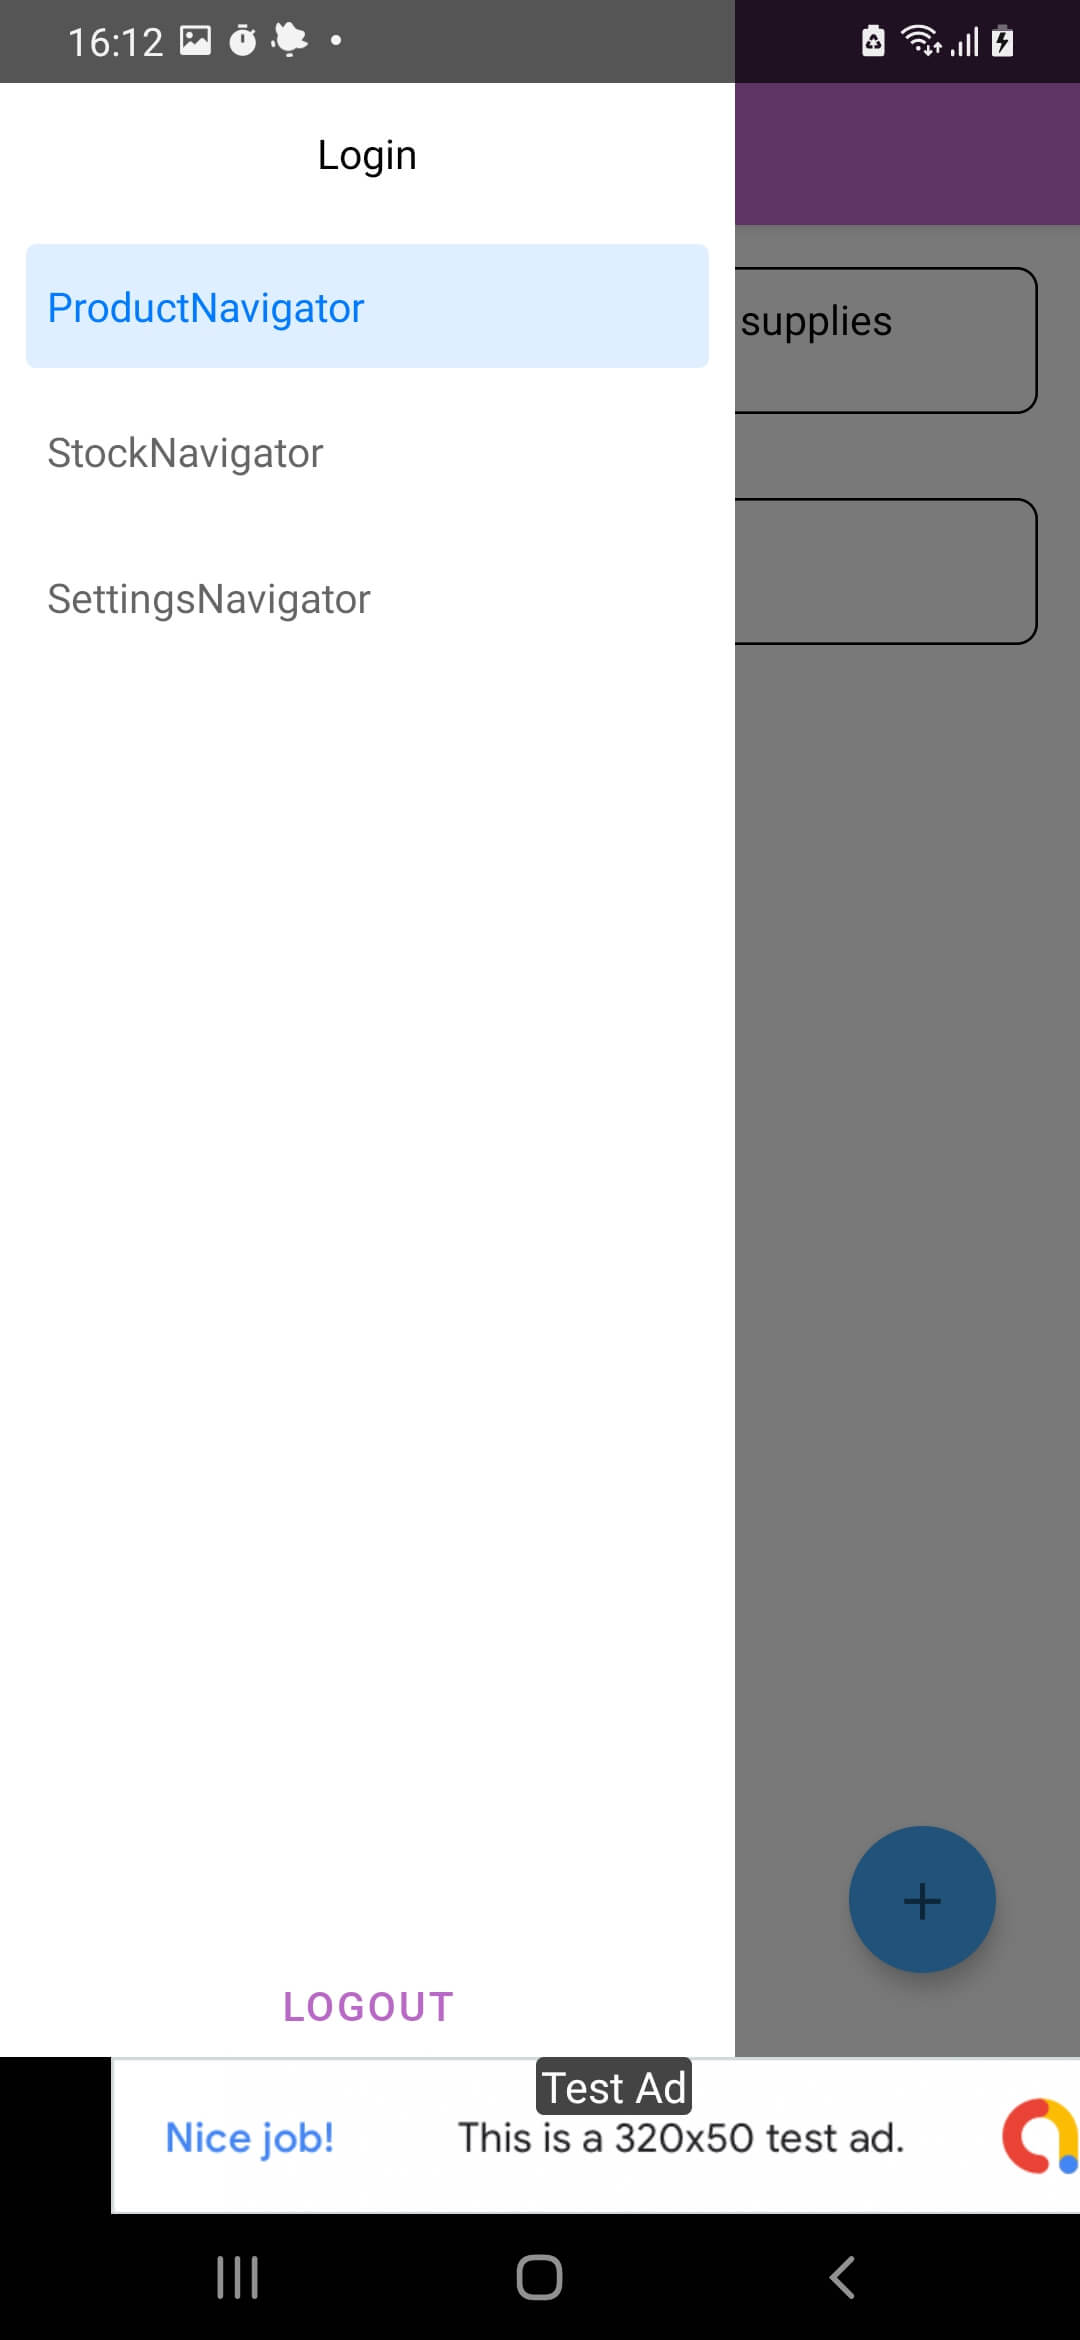
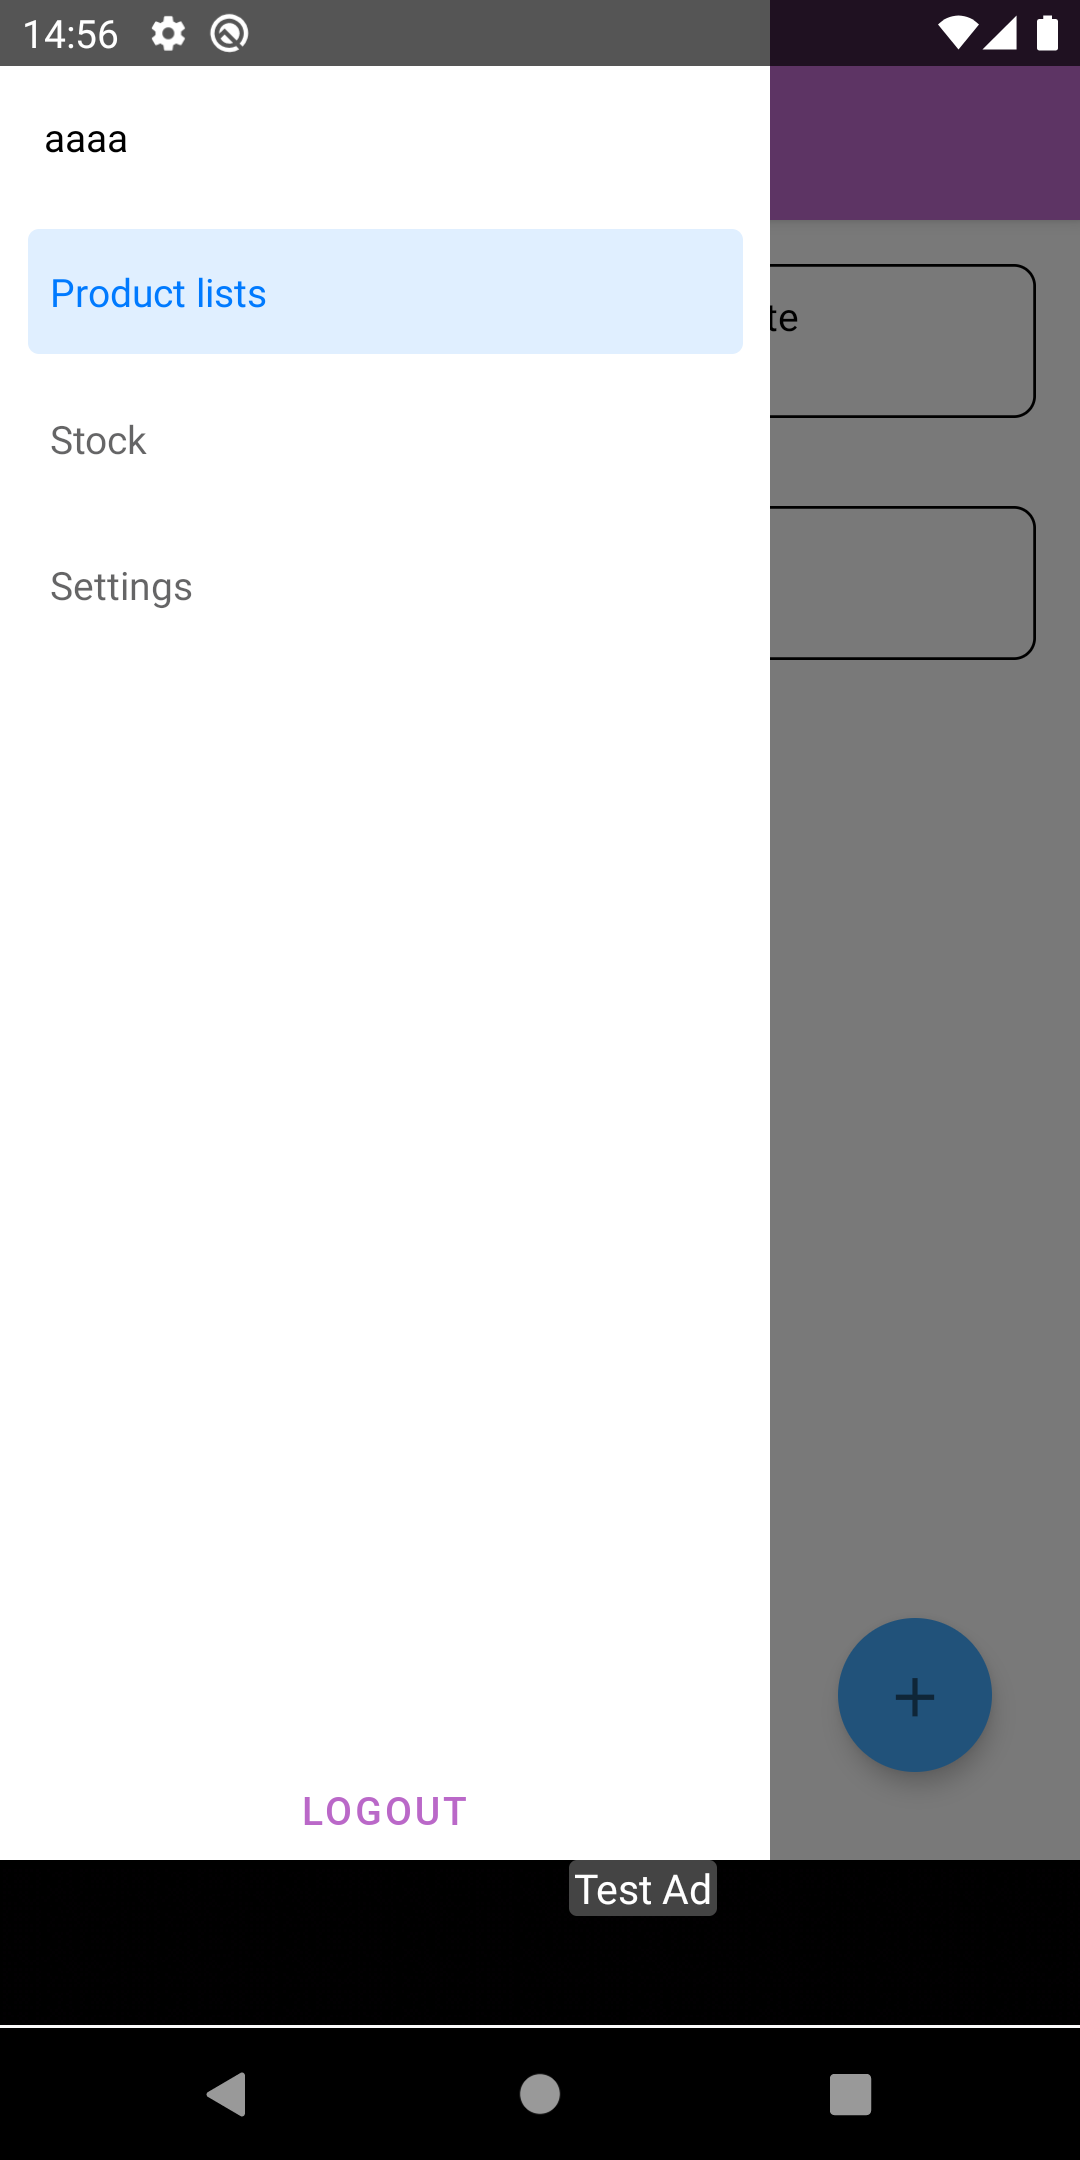
[#20] Ajustado titulos (#120)

Changed region(s): [[0.0, 0.0, 1.0, 0.9926], [0.0306, 0.2481, 0.3361, 0.2792], [0.9472, 0.2171, 0.9778, 0.2792]]

diff --git a/src/routes/product-list/new-list/index.tsx b/src/routes/product-list/new-list/index.tsx
@@ -11,6 +11,7 @@ import { formatDate } from '@utils/date';
 import { Container, SubContainer, ButtonContainer } from './styles';
 import useForm from './useForm';
 import useNewList from './useNewList';
+import useScreenSettings from './useScreenSettings';
 
 const NewList = () => {
   const {
@@ -27,9 +28,11 @@ const NewList = () => {
     handleDatePickerVisible,
   } = useNewList({ listParams, checkForm });
 
+  const { fabIcon, screenTitle } = useScreenSettings();
+
   return (
     <>
-      <Header title={translate('productLists.newList')} backButton />
+      <Header title={screenTitle} backButton />
       <Container>
         <SubContainer keyboardShouldPersistTaps="handled">
           <TextInput
@@ -38,25 +41,23 @@ const NewList = () => {
             onChangeText={setName}
             {...handleErrorMessage('name')}
           />
-           <TouchableRipple
-              withoutBackground
-              onPress={handleDatePickerVisible}>
-              <TextInput
-                editable={false}
-                fixedValue={buyDate ? formatDate(buyDate) : undefined}
-                label={translate('productLists.buyDate')}
-              />
-            </TouchableRipple>
+          <TouchableRipple withoutBackground onPress={handleDatePickerVisible}>
+            <TextInput
+              editable={false}
+              fixedValue={buyDate ? formatDate(buyDate) : undefined}
+              label={translate('productLists.buyDate')}
+            />
+          </TouchableRipple>
         </SubContainer>
-          <DateTimePicker
-            getDateTime={setBuyDate}
-            mode="date"
-            isVisible={datePickerVisible}
-            handleModalVisible={handleDatePickerVisible}
-            value={buyDate}
-          />
+        <DateTimePicker
+          getDateTime={setBuyDate}
+          mode="date"
+          isVisible={datePickerVisible}
+          handleModalVisible={handleDatePickerVisible}
+          value={buyDate}
+        />
         <ButtonContainer behavior="height">
-          <CircleButton icon="check" onPress={onAddPress} />
+          <CircleButton icon={fabIcon} onPress={onAddPress} />
         </ButtonContainer>
       </Container>
     </>

diff --git a/src/routes/product-list/new-list/__tests__/useScreenSettings.test.ts b/src/routes/product-list/new-list/__tests__/useScreenSettings.test.ts
@@ -1,0 +1,35 @@
+
+import * as reactNavigation from '@react-navigation/native';
+import { renderHook } from '@testing-library/react-hooks';
+
+import { translate } from '@locales';
+import { useRouteMock } from 'src/__tests__/navigation-mocks';
+
+import useScreenSettings from '../useScreenSettings';
+
+jest.mock('@react-navigation/native');
+
+describe('useScreenSettings', () => {
+  const routeSpy = jest.spyOn(reactNavigation, 'useRoute');
+
+  // should return the screen name as New List and the addition icon
+  test('deve retornar o nome da tela como nova lista e o icone de adição', () => {
+    routeSpy.mockReturnValue({ ...useRouteMock, params: {}  });
+
+    const { result } = renderHook(useScreenSettings);
+
+    expect(result.current.screenTitle).toEqual(translate('productLists.newList'));
+    expect(result.current.fabIcon).toEqual('plus');
+  });
+
+  // if the screen receive a productList on params, should return the screen name as Edit List and the check icon
+  test('caso a tela receba um productList como paramêtro, deve retornar o nome da tela como editar lista e o icone de check', () => {
+    routeSpy.mockReturnValue({ ...useRouteMock, params: { productList: { id: '1234' } }  });
+
+    const { result } = renderHook(useScreenSettings);
+
+    expect(result.current.screenTitle).toEqual(translate('productLists.editList'));
+    expect(result.current.fabIcon).toEqual('check');
+  });
+
+});

diff --git a/src/routes/new-item/__tests__/useScreenSettings.test.ts b/src/routes/new-item/__tests__/useScreenSettings.test.ts
@@ -1,0 +1,35 @@
+
+import * as reactNavigation from '@react-navigation/native';
+import { renderHook } from '@testing-library/react-hooks';
+
+import { translate } from '@locales';
+import { useRouteMock } from 'src/__tests__/navigation-mocks';
+
+import useScreenSettings from '../useScreenSettings';
+
+jest.mock('@react-navigation/native');
+
+describe('useScreenSettings', () => {
+  const routeSpy = jest.spyOn(reactNavigation, 'useRoute');
+
+  // should return the screen name as New Item and the addition icon
+  test('deve retornar o nome da tela como novo item e o icone de adição', () => {
+    routeSpy.mockReturnValue({ ...useRouteMock, params: {}  });
+
+    const { result } = renderHook(useScreenSettings);
+
+    expect(result.current.screenTitle).toEqual(translate('productItems.newItem'));
+    expect(result.current.fabIcon).toEqual('plus');
+  });
+
+  // if the screen receive a productItem on params, should return the screen name as Edit Item and a check icon
+  test('caso a tela receba um productItem como paramêtro, deve retornar o nome da tela como editar item e o icone de check', () => {
+    routeSpy.mockReturnValue({ ...useRouteMock, params: { productItem: { id: '1234' } }  });
+
+    const { result } = renderHook(useScreenSettings);
+
+    expect(result.current.screenTitle).toEqual(translate('productItems.editItem'));
+    expect(result.current.fabIcon).toEqual('check');
+  });
+
+});

diff --git a/src/routes/new-item/index.tsx b/src/routes/new-item/index.tsx
@@ -23,6 +23,7 @@ import {
 import useForm from './useForm';
 import useItemStore from './useItemStore';
 import useNewItem from './useNewItem';
+import useScreenSettings from './useScreenSettings';
 
 const NewItem = () => {
   const { formParams, setParams, handleErrorMessage, checkForm } = useForm();
@@ -44,6 +45,7 @@ const NewItem = () => {
     handleAutoCompleteItemPress,
     handleBarCodeDetected,
   } = useItemStore({ formParams, setParams });
+
   const {
     onSaveButtonPress,
     handleModalVisible,
@@ -57,9 +59,11 @@ const NewItem = () => {
     checkForm,
   });
 
+  const { screenTitle, fabIcon } = useScreenSettings();
+
   return (
     <>
-      <Header title={translate('productItems.newItem')} backButton />
+      <Header title={screenTitle} backButton />
       <Container keyboardShouldPersistTaps="handled">
         <SubContainer>
           <TextInput
@@ -129,7 +133,7 @@ const NewItem = () => {
         />
       </Container>
       <ButtonContainer>
-        <CircleButton icon="check" onPress={onSaveButtonPress} />
+        <CircleButton icon={fabIcon} onPress={onSaveButtonPress} />
       </ButtonContainer>
 
       <Portal>

diff --git a/src/navigator/authenticated.tsx b/src/navigator/authenticated.tsx
@@ -1,6 +1,7 @@
 import { createDrawerNavigator } from '@react-navigation/drawer';
 import React from 'react';
 
+import { translate } from '@locales';
 import { Routes } from '@routes';
 
 import Drawer from './components/drawer';
@@ -23,14 +24,17 @@ const AuthenticatedNavigator = () => {
         <AuthenticatedStack.Screen
           name={Routes.ProductNavigator}
           component={ProductNavigator}
+          options={{ title: translate('productLists.productLists') }}
         />
         <AuthenticatedStack.Screen
           name={Routes.StockNavigator}
           component={StockNavigator}
+          options={{ title: translate('stock.stock') }}
         />
         <AuthenticatedStack.Screen
           name={Routes.SettingsNavigator}
           component={SettingsNavigator}
+          options={{ title: translate('settings.settings') }}
         />
         <AuthenticatedStack.Screen
           name={Routes.UnauthenticatedNavigator}

diff --git a/src/routes/new-item/useScreenSettings.ts b/src/routes/new-item/useScreenSettings.ts
@@ -1,0 +1,32 @@
+import { RouteProp, useRoute } from '@react-navigation/native';
+import { useEffect, useState } from 'react';
+
+import { translate } from '@locales';
+import { ProductNavigatorParamsList } from '@navigator/product-navigator';
+
+type Route = RouteProp<ProductNavigatorParamsList, 'NewListItem'>;
+
+const useScreenSettings = () => {
+  const [screenTitle, setScreenTitle] = useState(
+    translate('productItems.newItem'),
+  );
+
+  const [fabIcon, setFabIcon] = useState('plus');
+
+  const route = useRoute<Route>();
+  const hasParams = !!route.params.productItem;
+
+  useEffect(() => {
+    if (hasParams) {
+      setScreenTitle(translate('productItems.editItem'));
+      setFabIcon('check');
+    }
+  }, [hasParams]);
+
+  return {
+    screenTitle,
+    fabIcon,
+  };
+};
+
+export default useScreenSettings;

diff --git a/src/routes/product-list/new-list/useScreenSettings.ts b/src/routes/product-list/new-list/useScreenSettings.ts
@@ -1,0 +1,32 @@
+import { RouteProp, useRoute } from '@react-navigation/native';
+import { useEffect, useState } from 'react';
+
+import { translate } from '@locales';
+import { ProductNavigatorParamsList } from '@navigator/product-navigator';
+
+type Route = RouteProp<ProductNavigatorParamsList, 'NewList'>;
+
+const useScreenSettings = () => {
+  const [screenTitle, setScreenTitle] = useState(
+    translate('productLists.newList'),
+  );
+
+  const [fabIcon, setFabIcon] = useState('plus');
+
+  const route = useRoute<Route>();
+  const hasParams = !!route.params.productList;
+
+  useEffect(() => {
+    if (hasParams) {
+      setScreenTitle(translate('productLists.editList'));
+      setFabIcon('check');
+    }
+  }, [hasParams]);
+
+  return {
+    screenTitle,
+    fabIcon,
+  };
+};
+
+export default useScreenSettings;

diff --git a/src/navigator/components/drawer-bottom/index.tsx b/src/navigator/components/drawer-bottom/index.tsx
@@ -2,6 +2,7 @@ import * as React from 'react';
 import { View } from 'react-native';
 
 import Button from '@components/button';
+import { translate } from '@locales';
 
 import useDrawerBottom from './useDrawerBottom';
 
@@ -9,7 +10,7 @@ const DrawerBottom = () => {
   const { onLogoutPress } = useDrawerBottom();
   return (
     <View>
-      <Button title="Logout" onPress={onLogoutPress} mode="text" />
+      <Button title={translate('general.logout')} onPress={onLogoutPress} mode="text" />
     </View>
   );
 };

diff --git a/src/locales/ptBR/product-lists.ts b/src/locales/ptBR/product-lists.ts
@@ -1,6 +1,8 @@
 const productLists = {
   lists: 'Listas',
+  productLists: "Listas de produtos",
   newList: 'Nova lista',
+  editList: 'Editar lista',
   buyDate: 'Data de compra'
 };
 

diff --git a/src/__tests__/navigation-mocks.ts b/src/__tests__/navigation-mocks.ts
@@ -13,3 +13,9 @@ export const useNavigationMocks = {
   setParams: jest.fn(),
   openDrawer: jest.fn(),
 };
+
+export const useRouteMock = {
+  params: {},
+  key: '',
+  name: ''
+};

diff --git a/src/locales/enUS/product-lists.ts b/src/locales/enUS/product-lists.ts
@@ -1,6 +1,8 @@
 const productLists = {
   lists: `Lists`,
+  productLists: "Product lists",
   newList: `New list`,
+  editList: 'Edit List',
   buyDate: 'Purchase date'
 };
 

diff --git a/src/locales/ptBR/product-items.ts b/src/locales/ptBR/product-items.ts
@@ -1,6 +1,7 @@
 const productItems = {
   items: 'Itens',
   newItem: 'Novo item',
+  editItem: 'Editar item',
   total: 'Total',
   amount: `Valor`,
   qtd: `Quantidade`,
